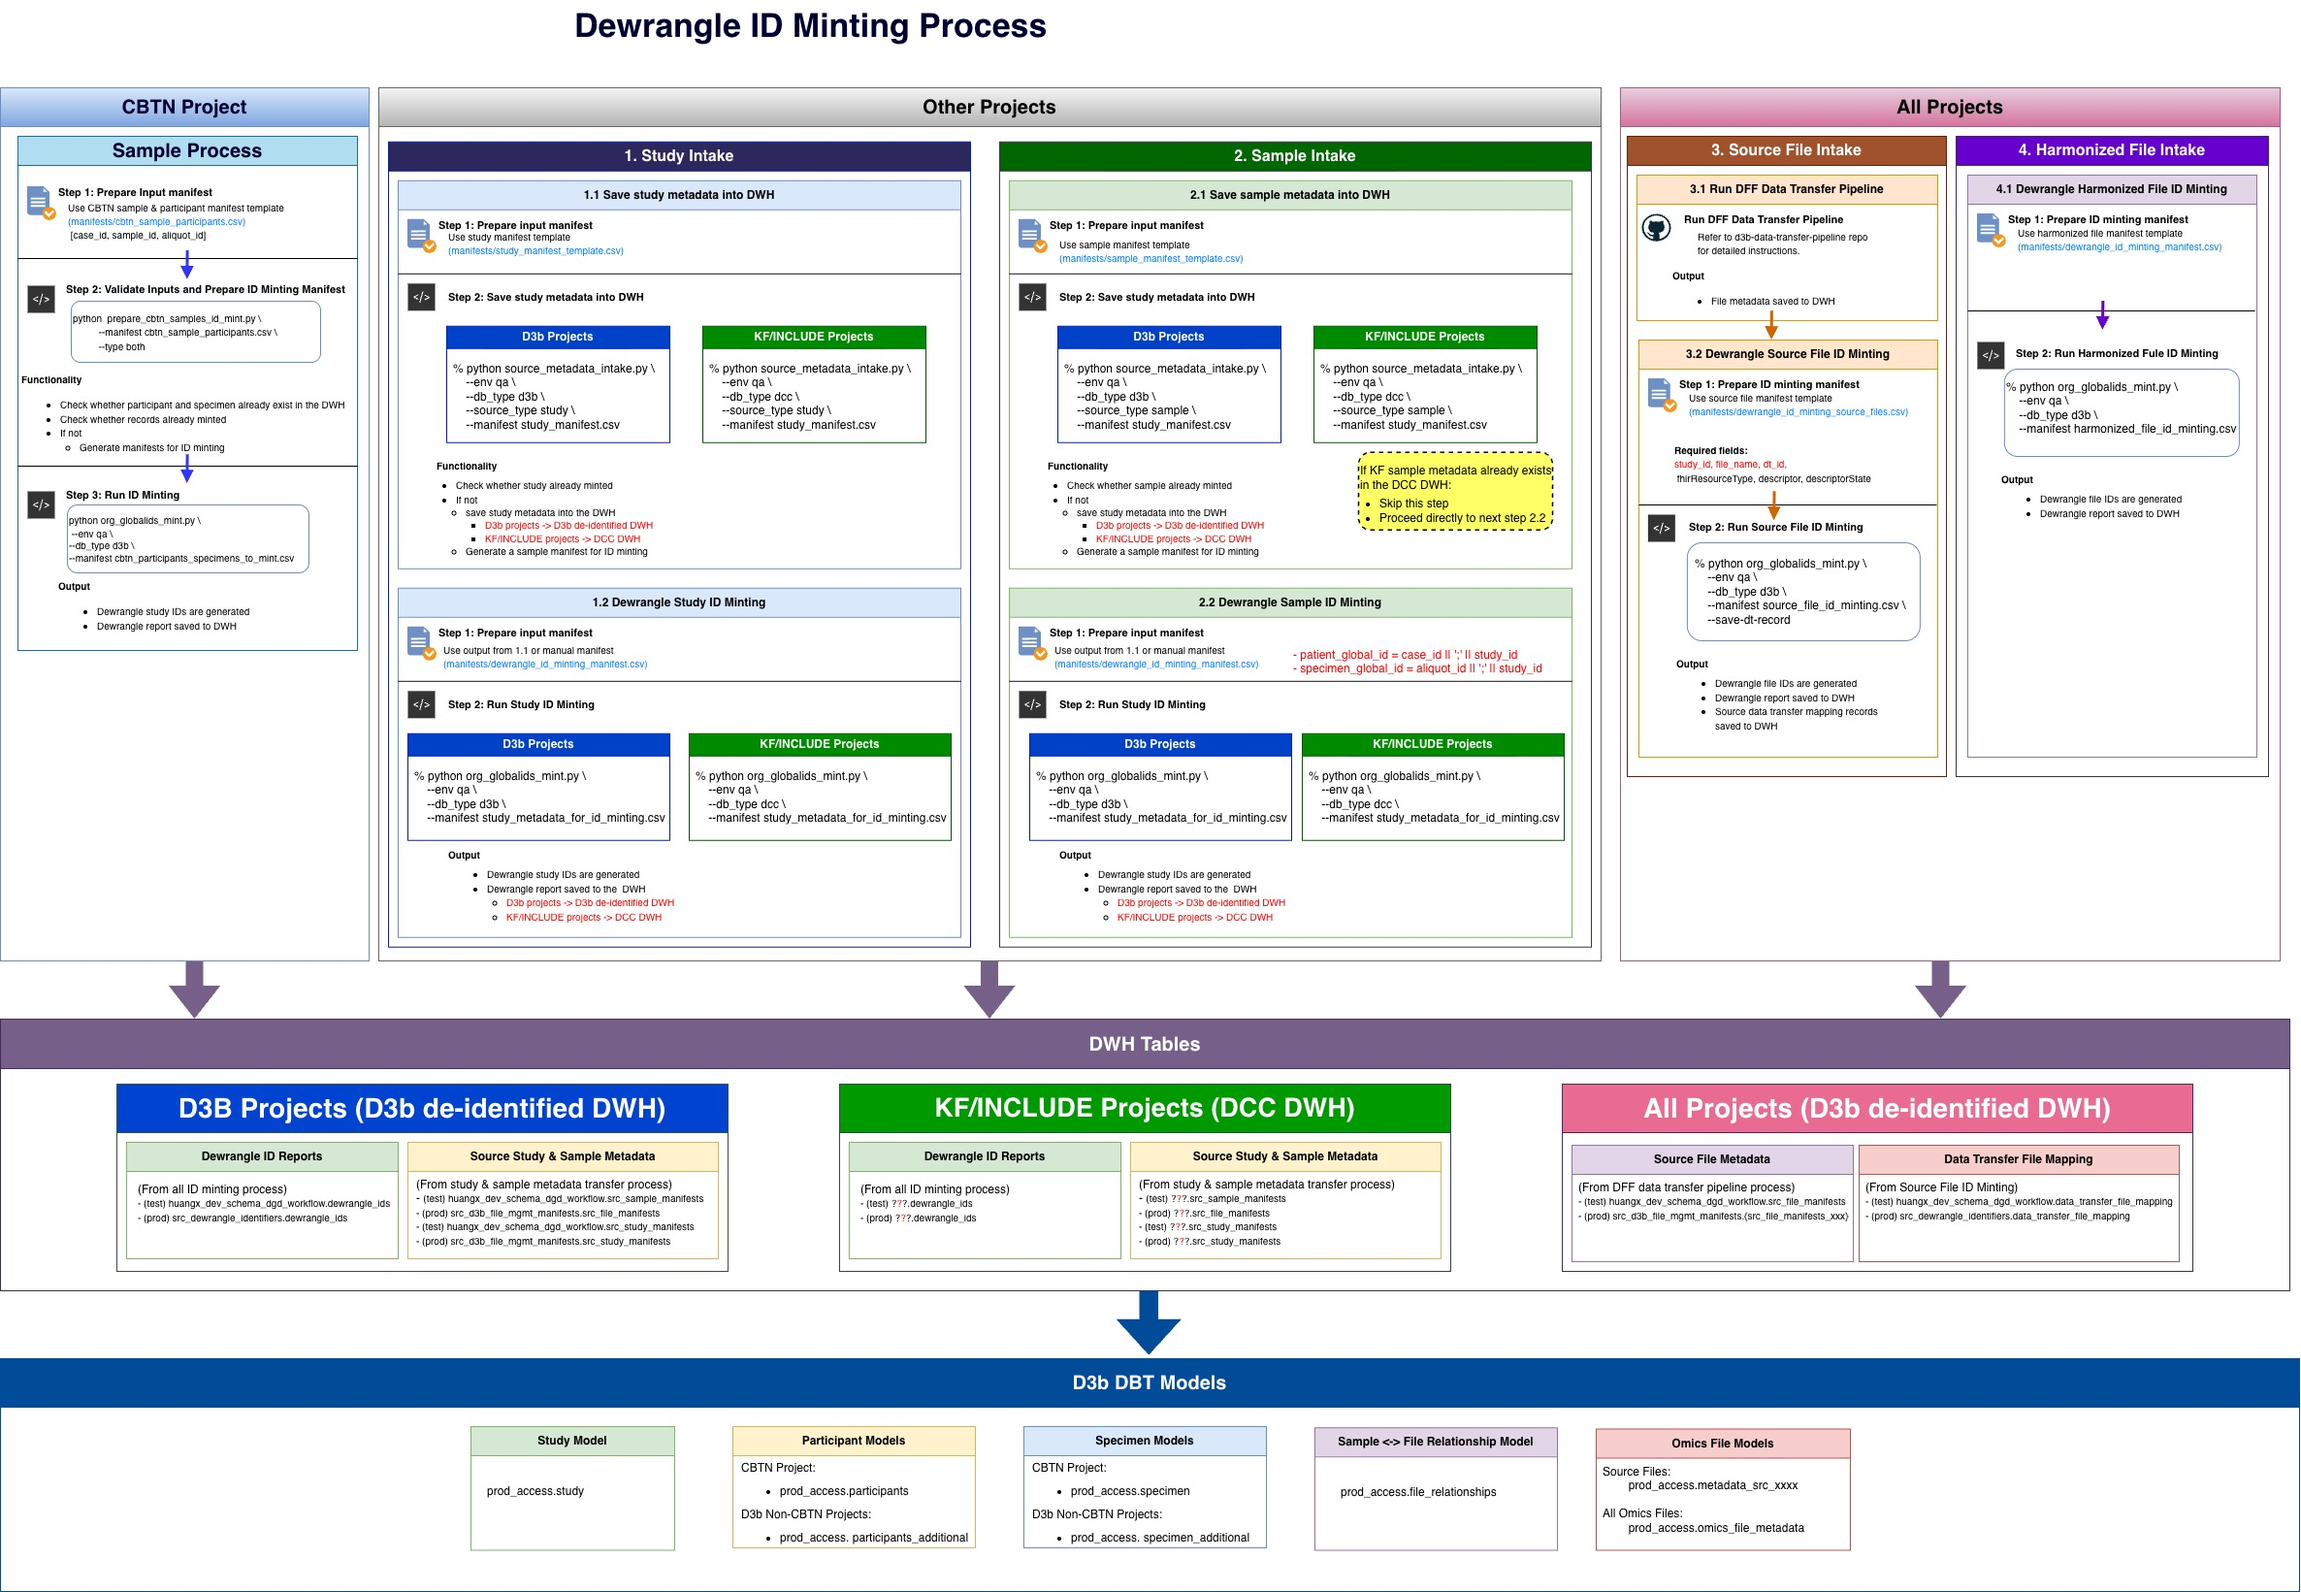
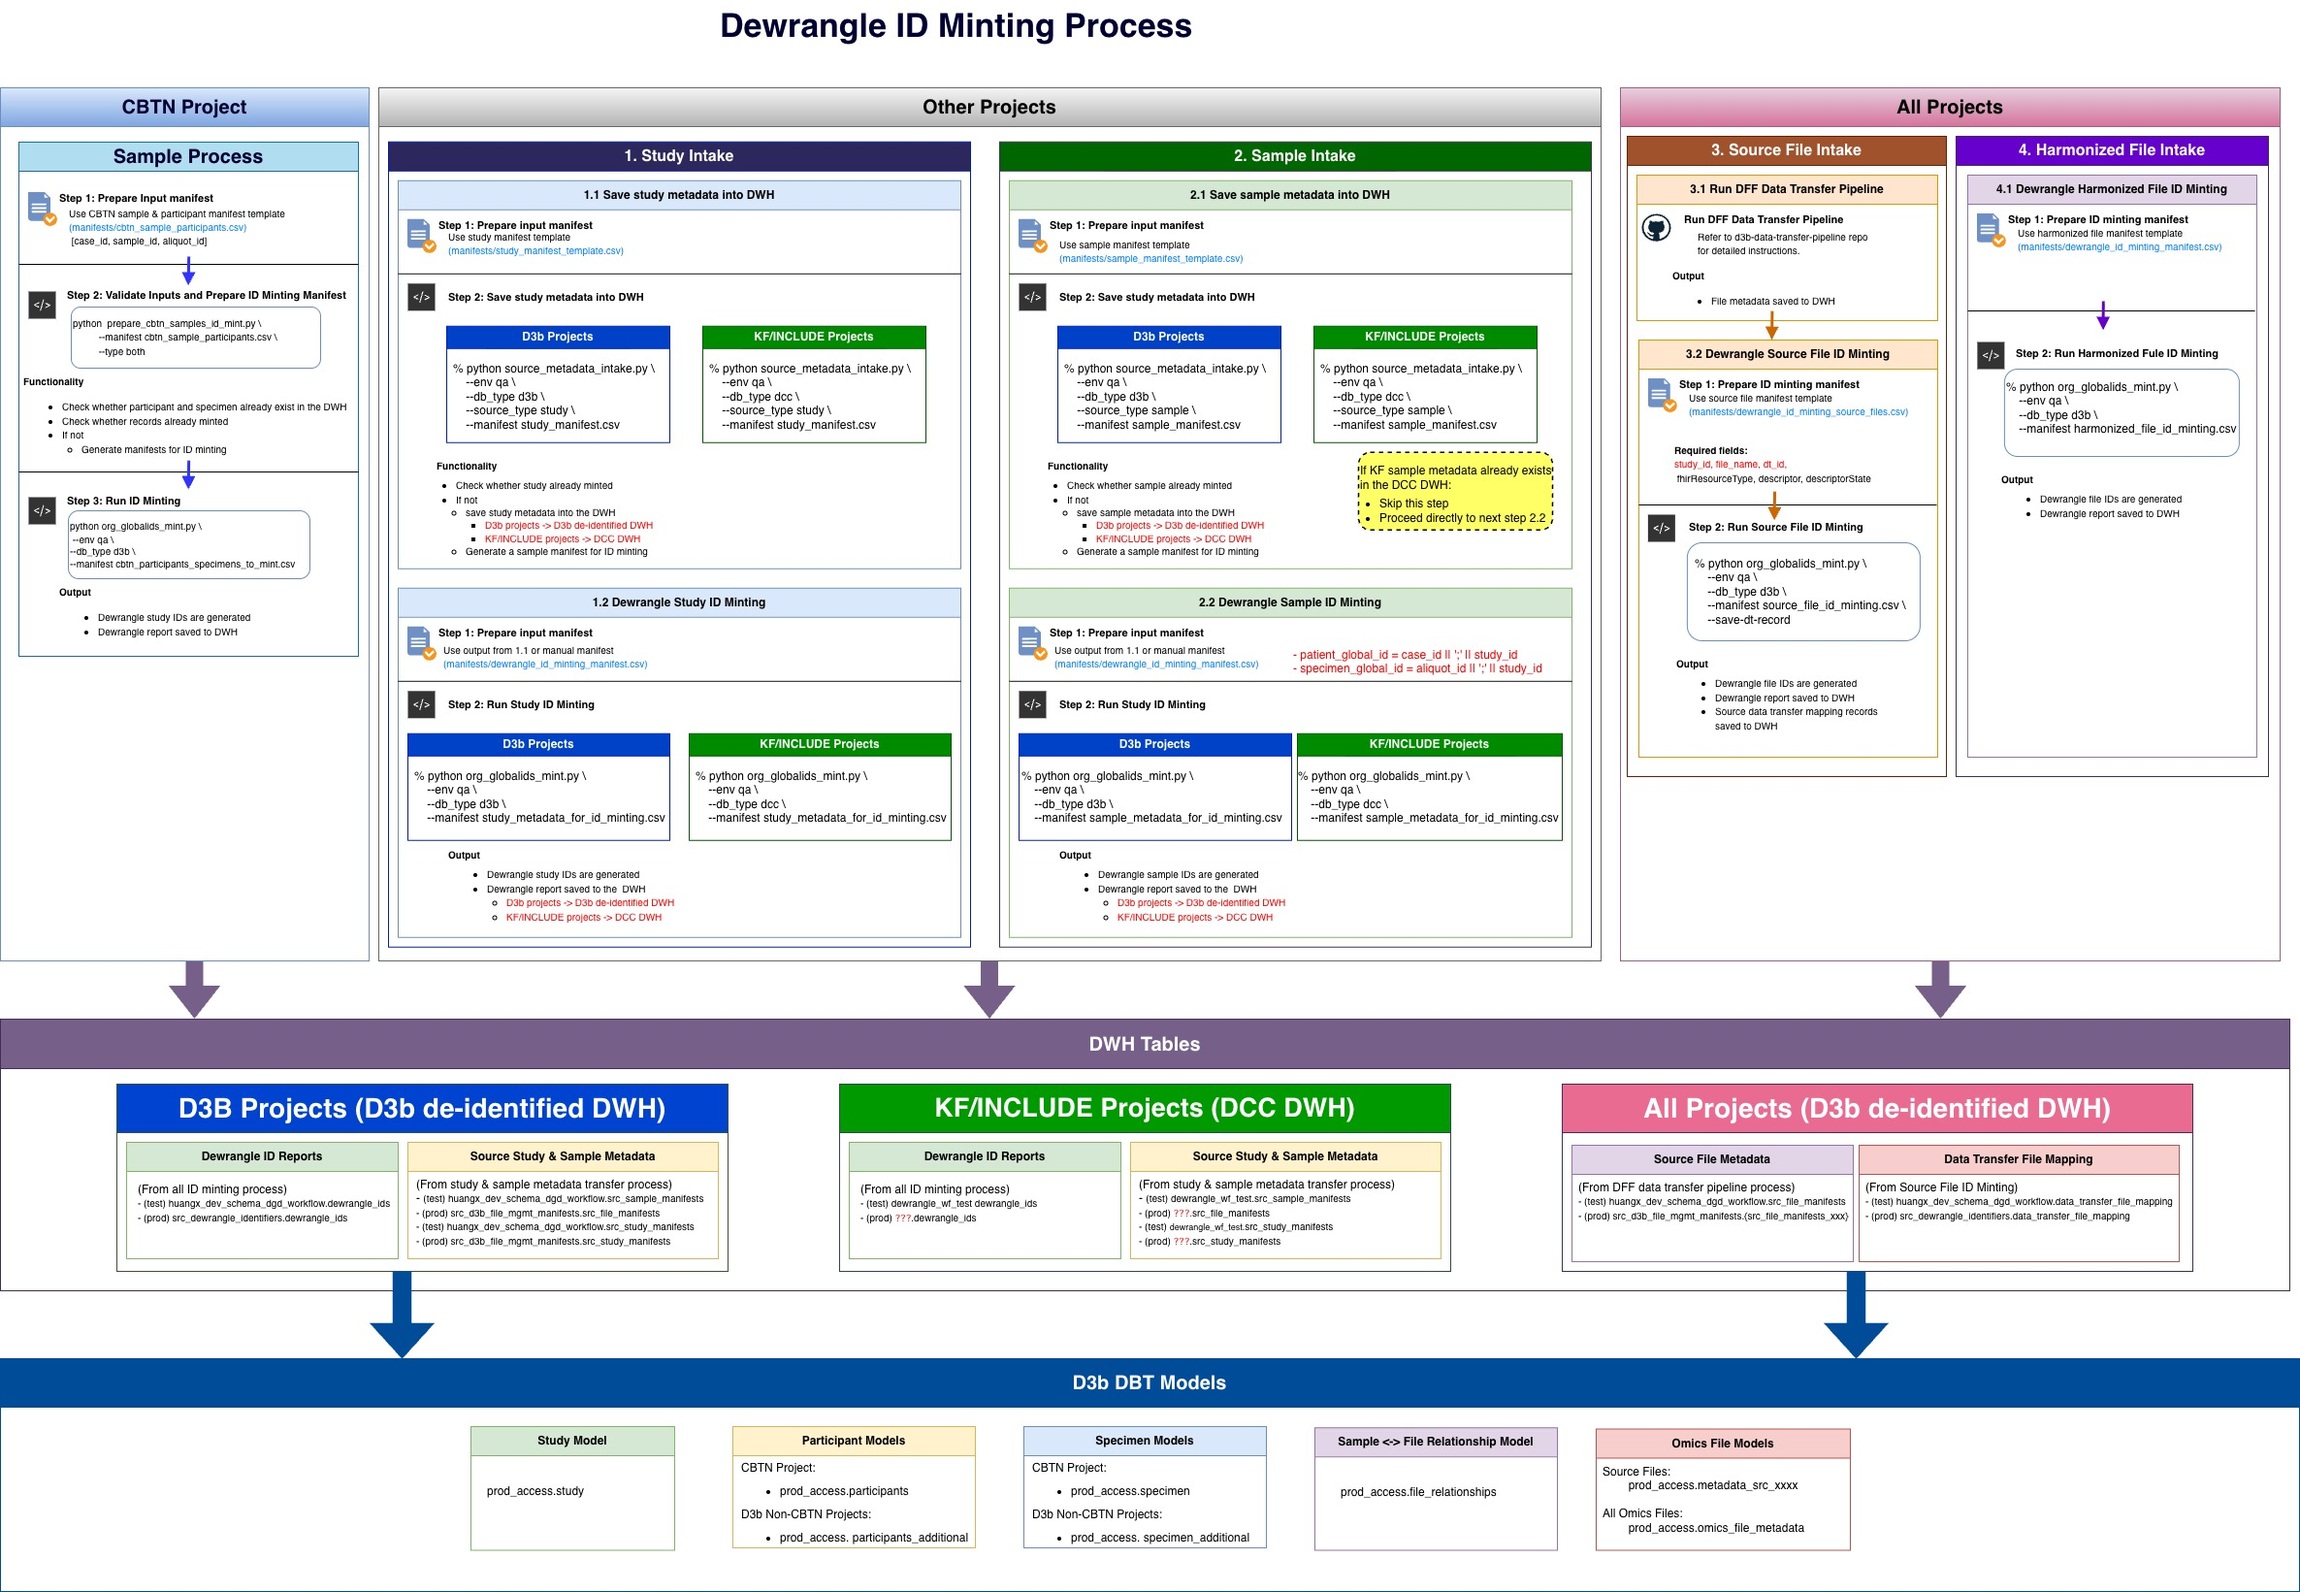
🚀 Support dcc

diff --git a/source_metadata_intake.py b/source_metadata_intake.py
@@ -52,11 +52,12 @@ def get_source_metadata_config(
 # ======================================
 # Database Helpers
 # ======================================
-def connect_to_database(db_host, db_name, db_user, db_password):
+def connect_to_database(db_host, db_name, db_user, db_port,db_password):
     db_config = {
         "host": db_host,
         "dbname": db_name,
         "user": db_user,
+        "port": db_port,
         "password": db_password,
     }
 
@@ -218,6 +219,7 @@ def main():
     db_host = db_config["db_host"]
     db_name = db_config["db_name"]
     db_user = db_config["db_user"]
+    db_port = db_config["db_port"]
     db_password = db_config["db_password"]
 
     source_config = get_source_metadata_config(
@@ -225,6 +227,7 @@ def main():
         env_type=env_type,
         source_type=source_type,
     )
+
     source_schema = source_config["schema"]
     source_table = source_config["table"]
     REQUIRED_FIELDS = source_config["primary_key_cols"]
@@ -236,7 +239,7 @@ def main():
     validate_manifest(df, REQUIRED_FIELDS)
 
     # Connect to DB
-    conn = connect_to_database(db_host, db_name, db_user, db_password)
+    conn = connect_to_database(db_host, db_name, db_user,db_port, db_password)
 
     # Get DB table columns
     table_columns = get_table_columns(conn, source_schema, source_table)
@@ -258,7 +261,7 @@ def main():
 
     # Generate manifest for dewrangle ID minting
     rows = []
-    if type == "study":
+    if source_type == "study":
         study_names = set(df['study_name'].dropna())
         for name in study_names:
             rows.append({
@@ -267,7 +270,7 @@ def main():
                 "descriptorState": "ACTIVE"
             })
 
-    elif type == "sample":
+    elif source_type == "sample":
         df_nonan = df.dropna(subset=['case_id', 'aliquot_id'])
         patient_ids = set(zip(df_nonan['study_id'], df_nonan['case_id']))
         specimen_ids = set(zip(df_nonan['study_id'], df_nonan['aliquot_id']))
@@ -287,9 +290,10 @@ def main():
                 "descriptorState": "ACTIVE"
             })
     else:
-        raise ValueError(f"❌ Invalid type: {type}")
+        raise ValueError(f"❌ Invalid type: {source_type}")
     
     output_df = pd.DataFrame(rows)
+
     # --- Check if descriptors already exist ---
     existing_rows = check_db_records_exist(
         conn,
@@ -297,17 +301,19 @@ def main():
         table_name=db_config[env_type]["dewrangle_ids"]["table"],
         df=output_df,
     )
-    if not existing_rows.empty:
-        existing_rows.to_csv(f"{type}_metadata_already_minted.csv", index=False)
+    if existing_rows is not None and not existing_rows.empty:
+        existing_rows.to_csv(f"{source_type}_metadata_already_minted.csv", index=False)
         logger.warning(
             f"⚠ Found {len(existing_rows)} descriptors already registered. "
-            f"See {type}_metadata_already_minted.csv"
+            f"See {source_type}_metadata_already_minted.csv"
         )
+        mint_df = output_df[~output_df["descriptor"].isin(existing_rows["descriptor"])]
+    else:
+        mint_df = output_df.copy()
     
-    mint_df = output_df[~output_df["descriptor"].isin(existing_rows["descriptor"])]
     if not mint_df.empty:
-        mint_df.to_csv(f"{type}_metadata_for_id_minting.csv", index=False)
-        logger.info(f"✅ Generated {type}_metadata_for_id_minting.csv for dewrangle ID minting.")
+        mint_df.to_csv(f"{source_type}_metadata_for_id_minting.csv", index=False)
+        logger.info(f"✅ Generated {source_type}_metadata_for_id_minting.csv for dewrangle ID minting.")
     else:
         logger.info(f"✅ No new descriptors to mint IDs.")
     

diff --git a/env_config.py b/env_config.py
@@ -18,11 +18,11 @@ config = {
     },
     "db": {
         "d3b_warehouse": {
-            "db_host": os.environ.get("D3B_WAREHOUSE_HOST", "localhost"),
-            "db_port": os.environ.get("D3B_WAREHOUSE_PORT", "5432"),
-            "db_name": os.environ.get("D3B_WAREHOUSE_DB_NAME", "postgres"),
-            "db_user": os.environ.get("D3B_WAREHOUSE_DB_USER", "postgres"),
-            "db_password": os.environ.get("D3B_WAREHOUSE_DB_USER_PW", "postgres"),
+            "db_host": os.environ.get("D3B_WAREHOUSE_HOST"),
+            "db_port": os.environ.get("D3B_WAREHOUSE_PORT"),
+            "db_name": os.environ.get("D3B_WAREHOUSE_DB_NAME"),
+            "db_user": os.environ.get("D3B_WAREHOUSE_DB_USER"),
+            "db_password": os.environ.get("D3B_WAREHOUSE_DB_USER_PW"),
             "qa": {
                 "dewrangle_ids": {
                 "schema": os.environ.get("QA_D3B_WAREHOUSE_DEWRANGLE_IDS_SCHEMA"),
@@ -74,12 +74,12 @@ config = {
             },
         },
         "dcc_warehouse": {
-            "db_host": os.environ.get("DCC_WAREHOUSE_HOST", "localhost"),
-            "db_port": os.environ.get("DCC_WAREHOUSE_PORT", "5432"),
-            "db_name": os.environ.get("DCC_WAREHOUSE_DB_NAME", "postgres"),
-            "db_user": os.environ.get("DCC_WAREHOUSE_DB_USER", "postgres"),
-            "db_password": os.environ.get("DCC_WAREHOUSE_DB_USER_PW", "postgres"),
-             "prod": {
+            "db_host": os.environ.get("DCC_WAREHOUSE_HOST"),
+            "db_port": os.environ.get("DCC_WAREHOUSE_PORT"),
+            "db_name": os.environ.get("DCC_WAREHOUSE_DB_NAME"),
+            "db_user": os.environ.get("DCC_WAREHOUSE_DB_USER"),
+            "db_password": os.environ.get("DCC_WAREHOUSE_DB_USER_PW"),
+            "prod": {
                 "dewrangle_ids": {
                     "schema": os.environ.get("PROD_DCC_WAREHOUSE_DEWRANGLE_IDS_SCHEMA"),
                     "table": os.environ.get("PROD_DCC_WAREHOUSE_DEWRANGLE_IDS_TABLE"),
@@ -93,6 +93,23 @@ config = {
                 "source_sample_metadata": {
                     "schema": os.environ.get("PROD_DCC_WAREHOUSE_SAMPLE_SOURCE_SCHEMA"),
                     "table": os.environ.get("PROD_DCC_WAREHOUSE_SAMPLE_SOURCE_TABLE"),
+                    "primary_key_cols": ["study_id", "case_id", "sample_id", "aliquot_id"],
+                }
+            },
+            "qa": {
+                "dewrangle_ids": {
+                "schema": os.environ.get("QA_DCC_WAREHOUSE_DEWRANGLE_IDS_SCHEMA"),
+                "table": os.environ.get("QA_DCC_WAREHOUSE_DEWRANGLE_IDS_TABLE"),
+                "primary_key_cols": ["globalId", "studyGlobalId", "descriptor", "descriptorState"],
+                },
+                "source_study_metadata": {
+                    "schema": os.environ.get("QA_DCC_WAREHOUSE_STUDY_SOURCE_SCHEMA"),
+                    "table": os.environ.get("QA_DCC_WAREHOUSE_STUDY_SOURCE_TABLE"),
+                    "primary_key_cols": ["study_name", "program"],
+                },
+                "source_sample_metadata": {
+                    "schema": os.environ.get("QA_DCC_WAREHOUSE_SAMPLE_SOURCE_SCHEMA"),
+                    "table": os.environ.get("QA_DCC_WAREHOUSE_SAMPLE_SOURCE_TABLE"),
                     "primary_key_cols": ["study_id", "case_id", "sample_id", "aliquot_id"],
                 }
             },

diff --git a/org_globalids_mint.py b/org_globalids_mint.py
@@ -363,11 +363,12 @@ def get_db_config(database_type: str):
         return config["db"]["dcc_warehouse"]
     raise ValueError(f"Unsupported database_type: {database_type}")
 
-def connect_to_database(db_host, db_name, db_user, db_password):
+def connect_to_database(db_host, db_name, db_user, db_port, db_password):
     db_config = {
         "host": db_host,
         "dbname": db_name,
         "user": db_user,
+        "port": db_port,
         "password": db_password,
     }
 
@@ -600,6 +601,7 @@ def main():
         db_host=db_config["db_host"],
         db_name=db_config["db_name"],
         db_user=db_config["db_user"],
+        db_port=db_config["db_port"],
         db_password=db_config["db_password"]
     )
 
